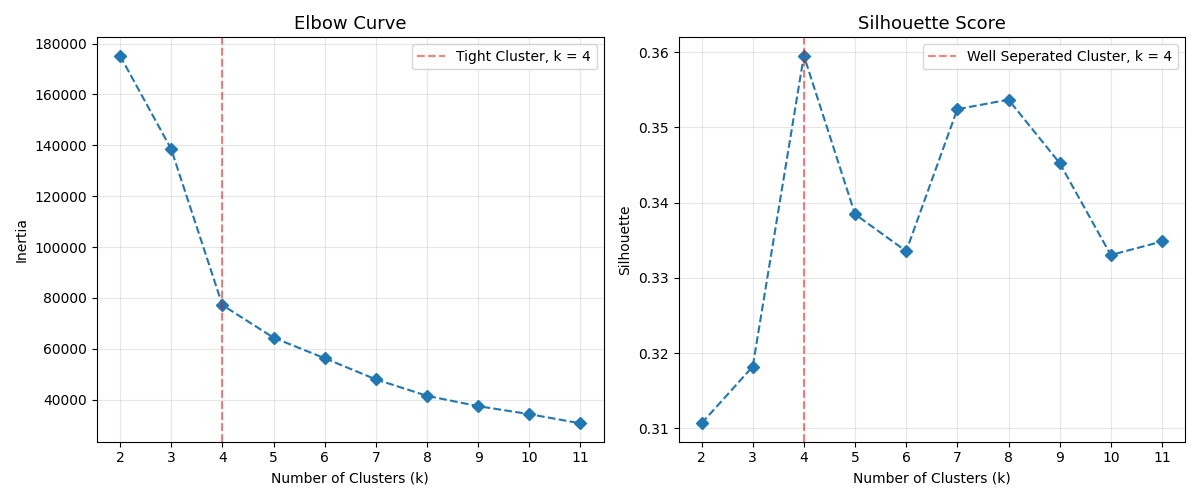
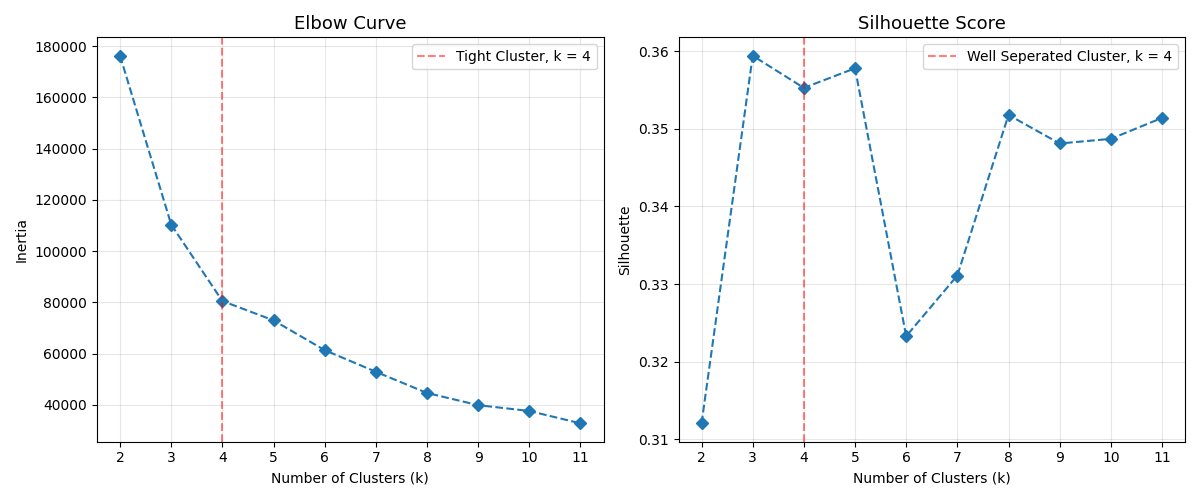
Completed SLA Breach rate by state and Delivery days vs Interstate status

diff --git a/src/load_data.py b/src/load_data.py
@@ -40,7 +40,7 @@ def load_joined_data(engine) -> pd.DataFrame:
 
     From Customers c
     INNER JOIN Orders o USING(customer_id)
-    INNER JOIN Order_items oi USING(order_id)
+    LEFT JOIN Order_items oi USING(order_id)
     LEFT JOIN products p USING(product_id)
     LEFT JOIN Product_category_name_translation t USING(product_category_name)
     LEFT JOIN Sellers s  USING(seller_id)
@@ -48,6 +48,9 @@ def load_joined_data(engine) -> pd.DataFrame:
     LEFT JOIN Order_reviews r USING(order_id)
     """
     joined_df = pd.read_sql(query,engine)
+    date_col = ['order_purchase_timestamp','order_delivered_carrier_date','order_delivered_customer_date','order_estimated_delivery_date']
+    for col in date_col:
+        joined_df[col] = pd.to_datetime(joined_df[col],errors='coerce')
     return joined_df
 
 if __name__ == "__main__":

diff --git a/README.md b/README.md
@@ -16,6 +16,10 @@ End-to-end supply chain analytics project using Olist's Brazilian e-commerce dat
 
 ![RFM Segments](outputs/customer_segment.png)
 
+![SLA Breach Rate](outputs/sla_breach_by_state.png)
+
+![Delivery time](outputs/interstate_vs_deliverydays.png)
+
 ---
 
 ## ⚠️ Project Status: Under Construction